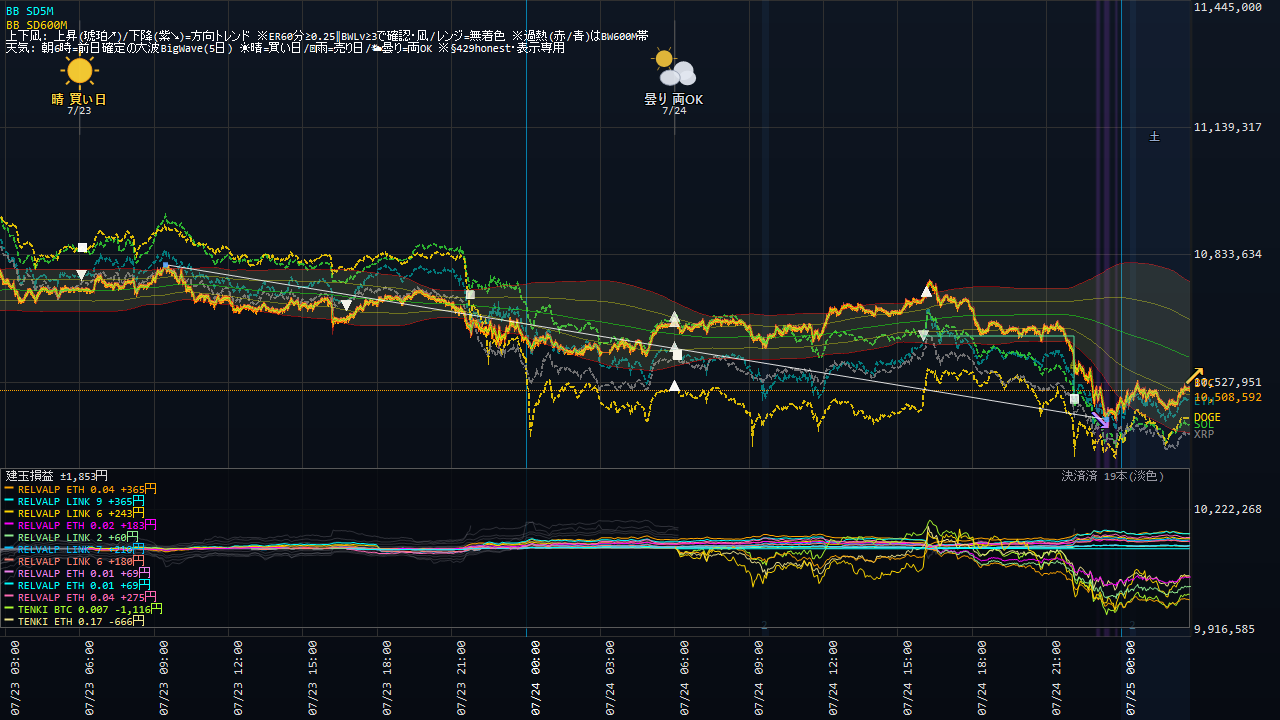
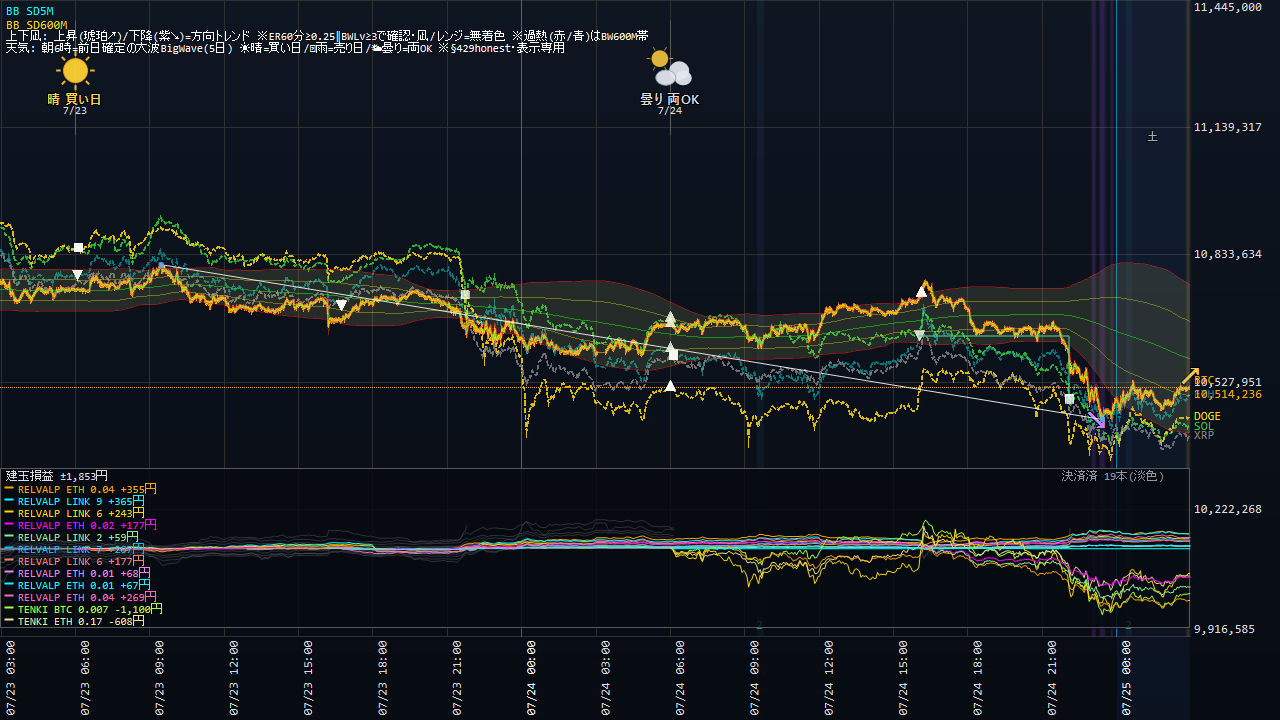
Coin100S 運用状況更新 07-25 02:59

diff --git a/coin100s-795hc4jfv8/index.html b/coin100s-795hc4jfv8/index.html
@@ -14,16 +14,16 @@ a{color:#60a5fa;text-decoration:none} a:hover{text-decoration:underline}
 .meta{color:#94a3b8;font-size:13px}</style>
 <script>setTimeout(function(){location.replace(location.pathname+"?t="+Date.now());},300000);</script></head><body>
 <h1>Coin100S ダッシュボード</h1>
-<p class="meta">スナップショット: 2026-07-25 02:52:41(自動リロード・最新化)</p>
+<p class="meta">スナップショット: 2026-07-25 02:58:41(自動リロード・最新化)</p>
 <div class="cards">
 <div class="card">建玉数<div class="v">17</div></div>
 <div class="card">本日損益<div class="v pos">+2,751円</div></div>
-<div class="card">評価損益<div class="v neg">-3,461円</div></div>
+<div class="card">評価損益<div class="v neg">-3,372円</div></div>
 </div>
 <h2>現在の建玉</h2>
-<table><tr><th>銘柄</th><th>側</th><th>数量</th><th>建値</th><th>含損益</th><th>レッグ</th></tr><tr><td>BTC_JPY</td><td>BUY</td><td>0.004</td><td>@10,745,939</td><td>-940円</td><td>TENKI5D_REV_BTC</td></tr><tr><td>BTC_JPY</td><td>BUY</td><td>0.003</td><td>@10,745,878</td><td>-705円</td><td>TENKI5D_REV_BTC</td></tr><tr><td>BTC_JPY</td><td>BUY</td><td>0.007</td><td>@10,672,390</td><td>-1,130円</td><td>TENKI5D_REV_BTC</td></tr><tr><td>DOGE_JPY</td><td>BUY</td><td>6640</td><td>@11</td><td>-678円</td><td>TENKI5D_REV_DOGE</td></tr><tr><td>DOGE_JPY</td><td>BUY</td><td>10</td><td>@11</td><td>-2円</td><td>TENKI5D_REV_DOGE</td></tr><tr><td>ETH_JPY</td><td>BUY</td><td>0.17</td><td>@309,150</td><td>-677円</td><td>TENKI5D_REV_ETH</td></tr><tr><td>ETH_JPY</td><td>SELL</td><td>0.04</td><td>@312,191</td><td>+280円</td><td>RELVALP_SELL</td></tr><tr><td>ETH_JPY</td><td>SELL</td><td>0.01</td><td>@312,191</td><td>+70円</td><td>RELVALP_SELL</td></tr><tr><td>ETH_JPY</td><td>SELL</td><td>0.01</td><td>@312,216</td><td>+70円</td><td>RELVALP_SELL</td></tr><tr><td>ETH_JPY</td><td>SELL</td><td>0.02</td><td>@314,458</td><td>+185円</td><td>RELVALP_SL700</td></tr><tr><td>ETH_JPY</td><td>SELL</td><td>0.04</td><td>@314,458</td><td>+371円</td><td>RELVALP_SELL</td></tr><tr><td>LINK_JPY</td><td>SELL</td><td>6</td><td>@1,398</td><td>+156円</td><td>RELVALP_SL700</td></tr><tr><td>LINK_JPY</td><td>SELL</td><td>7</td><td>@1,398</td><td>+182円</td><td>RELVALP_SELL</td></tr><tr><td>LINK_JPY</td><td>SELL</td><td>2</td><td>@1,398</td><td>+52円</td><td>RELVALP_SELL</td></tr><tr><td>LINK_JPY</td><td>SELL</td><td>6</td><td>@1,409</td><td>+222円</td><td>RELVALP_SL700</td></tr><tr><td>LINK_JPY</td><td>SELL</td><td>9</td><td>@1,409</td><td>+333円</td><td>RELVALP_SELL</td></tr><tr><td>SOL_JPY</td><td>BUY</td><td>3.6</td><td>@12,472</td><td>-1,250円</td><td>TENKI5D_REV_SOL</td></tr></table>
+<table><tr><th>銘柄</th><th>側</th><th>数量</th><th>建値</th><th>含損益</th><th>レッグ</th></tr><tr><td>BTC_JPY</td><td>BUY</td><td>0.004</td><td>@10,745,939</td><td>-930円</td><td>TENKI5D_REV_BTC</td></tr><tr><td>BTC_JPY</td><td>BUY</td><td>0.003</td><td>@10,745,878</td><td>-698円</td><td>TENKI5D_REV_BTC</td></tr><tr><td>BTC_JPY</td><td>BUY</td><td>0.007</td><td>@10,672,390</td><td>-1,113円</td><td>TENKI5D_REV_BTC</td></tr><tr><td>DOGE_JPY</td><td>BUY</td><td>6640</td><td>@11</td><td>-651円</td><td>TENKI5D_REV_DOGE</td></tr><tr><td>DOGE_JPY</td><td>BUY</td><td>10</td><td>@11</td><td>-1円</td><td>TENKI5D_REV_DOGE</td></tr><tr><td>ETH_JPY</td><td>BUY</td><td>0.17</td><td>@309,150</td><td>-587円</td><td>TENKI5D_REV_ETH</td></tr><tr><td>ETH_JPY</td><td>SELL</td><td>0.04</td><td>@312,191</td><td>+259円</td><td>RELVALP_SELL</td></tr><tr><td>ETH_JPY</td><td>SELL</td><td>0.01</td><td>@312,191</td><td>+64円</td><td>RELVALP_SELL</td></tr><tr><td>ETH_JPY</td><td>SELL</td><td>0.01</td><td>@312,216</td><td>+65円</td><td>RELVALP_SELL</td></tr><tr><td>ETH_JPY</td><td>SELL</td><td>0.02</td><td>@314,458</td><td>+175円</td><td>RELVALP_SL700</td></tr><tr><td>ETH_JPY</td><td>SELL</td><td>0.04</td><td>@314,458</td><td>+350円</td><td>RELVALP_SELL</td></tr><tr><td>LINK_JPY</td><td>SELL</td><td>6</td><td>@1,398</td><td>+156円</td><td>RELVALP_SL700</td></tr><tr><td>LINK_JPY</td><td>SELL</td><td>7</td><td>@1,398</td><td>+182円</td><td>RELVALP_SELL</td></tr><tr><td>LINK_JPY</td><td>SELL</td><td>2</td><td>@1,398</td><td>+52円</td><td>RELVALP_SELL</td></tr><tr><td>LINK_JPY</td><td>SELL</td><td>6</td><td>@1,409</td><td>+222円</td><td>RELVALP_SL700</td></tr><tr><td>LINK_JPY</td><td>SELL</td><td>9</td><td>@1,409</td><td>+333円</td><td>RELVALP_SELL</td></tr><tr><td>SOL_JPY</td><td>BUY</td><td>3.6</td><td>@12,472</td><td>-1,250円</td><td>TENKI5D_REV_SOL</td></tr></table>
 <p><a href="status.html"><b>▶ 運用状況の詳細(チャート・本日の取引・レジーム)</b></a></p>
 <h2>日報一覧</h2>
 <table><tr><th>取引日</th><th>実現損益</th><th>総括</th></tr><tr><td><a href='reports/20260723_Coin100S日報.html'>2026-07-23</a></td><td class="pos">+0円</td><td class='meta'>実取引: 新規8件/決済3件、実現損益 +0円。警告/孤児/エラーなし＝健全。</td></tr><tr><td><a href='reports/20260722_Coin100S日報.html'>2026-07-22</a></td><td class="pos">+0円</td><td class='meta'>実取引: 新規10件/決済5件、実現損益 +0円。シグナル却下1件（最多: BW10M3_5M／トレンド方向ゲート(N分傾き下と不一致=逆張り方向のfade禁止)）。⚠警告/エラー 9件（要確認）。</td></tr><tr><td><a href='reports/20260721_Coin100S日報.html'>2026-07-21</a></td><td class="pos">+0円</td><td class='meta'>実取引: 新規4件/決済13件、実現損益 +0円。⚠警告/エラー 13件（要確認）。</td></tr><tr><td><a href='reports/20260720_Coin100S日報.html'>2026-07-20</a></td><td class="pos">+0円</td><td class='meta'>実取引: 新規8件/決済21件、実現損益 +0円。シグナル却下8件（最多: BW10M3_5M／トレンド方向ゲート(N分傾き上と不一致=逆張り方向のfade禁止)）。⚠警告/エラー 13件（要確認）。</td></tr><tr><td><a href='reports/20260719_Coin100S日報.html'>2026-07-19</a></td><td class="pos">+0円</td><td class='meta'>実取引: 新規10件/決済7件、実現損益 +0円。⚠警告/エラー 3件（要確認）。</td></tr><tr><td><a href='reports/20260718_Coin100S日報.html'>2026-07-18</a></td><td class="pos">+0円</td><td class='meta'>実取引: 新規9件/決済8件、実現損益 +0円。警告/孤児/エラーなし＝健全。</td></tr><tr><td><a href='reports/20260717_Coin100S日報.html'>2026-07-17</a></td><td class="pos">+0円</td><td class='meta'>実取引: 新規3件/決済2件、実現損益 +0円。シグナル却下1件（最多: BW10M3_5M／トレンド方向ゲート(N分傾き下と不一致=逆張り方向のfade禁止)）。⚠警告/エラー 2件（要確認）。</td></tr><tr><td><a href='reports/20260716_Coin100S日報.html'>2026-07-16</a></td><td class="pos">+0円</td><td class='meta'>実取引: 新規0件/決済5件、実現損益 +0円。⚠警告/エラー 7件（要確認）。</td></tr><tr><td><a href='reports/20260715_Coin100S日報.html'>2026-07-15</a></td><td class="pos">+0円</td><td class='meta'>実取引: 新規6件/決済5件、実現損益 +0円。シグナル却下6件（最多: BW10M3_5M／トレンド方向ゲート(N分傾き上と不一致=逆張り方向のfade禁止)）。⚠警告/エラー 7件（要確認）。</td></tr><tr><td><a href='reports/20260714_Coin100S日報.html'>2026-07-14</a></td><td class="pos">+0円</td><td class='meta'>実取引: 新規6件/決済18件、実現損益 +0円。シグナル却下5件（最多: BW10M3_5M／トレンド方向ゲート(N分傾き上と不一致=逆張り方向のfade禁止)）。⚠警告/エラー 9件（要確認）。</td></tr><tr><td><a href='reports/20260713_Coin100S日報.html'>2026-07-13</a></td><td class="pos">+0円</td><td class='meta'>実取引: 新規5件/決済8件、実現損益 +0円。シグナル却下1件（最多: BW10M3_5M／トレンド方向ゲート(N分傾き上と不一致=逆張り方向のfade禁止)）。警告/孤児/エラーなし＝健全。</td></tr><tr><td><a href='reports/20260712_Coin100S日報.html'>2026-07-12</a></td><td class="pos">+0円</td><td class='meta'>実取引: 新規14件/決済6件、実現損益 +0円。シグナル却下5件（最多: BW10M3_5M／トレンド方向ゲート(N分傾き下と不一致=逆張り方向のfade禁止)）。⚠警告/エラー 2件（要確認）。</td></tr><tr><td><a href='reports/20260711_Coin100S日報.html'>2026-07-11</a></td><td class="pos">+0円</td><td class='meta'>実取引: 新規7件/決済6件、実現損益 +0円。⚠警告/エラー 52件（要確認）。</td></tr><tr><td><a href='reports/20260710_Coin100S日報.html'>2026-07-10</a></td><td class="pos">+0円</td><td class='meta'>実取引: 新規7件/決済6件、実現損益 +0円。シグナル却下6件（最多: BW10M3_5M／トレンド方向ゲート(N分傾き上と不一致=逆張り方向のfade禁止)）。警告/孤児/エラーなし＝健全。</td></tr><tr><td><a href='reports/20260709_Coin100S日報.html'>2026-07-09</a></td><td class="pos">+0円</td><td class='meta'>実取引: 新規8件/決済3件、実現損益 +0円。シグナル却下5件（最多: SD120M_5M／トレンド方向ゲート(N分傾き上と不一致=逆張り方向のfade禁止)）。警告/孤児/エラーなし＝健全。</td></tr><tr><td><a href='reports/20260708_Coin100S日報.html'>2026-07-08</a></td><td class="pos">+0円</td><td class='meta'>実取引: 新規2件/決済4件、実現損益 +0円。シグナル却下4件（最多: SD120M_5M／トレンド方向ゲート(N分傾き下と不一致=逆張り方向のfade禁止)）。警告/孤児/エラーなし＝健全。</td></tr><tr><td><a href='reports/20260707_Coin100S日報.html'>2026-07-07</a></td><td class="pos">+0円</td><td class='meta'>実取引: 新規8件/決済6件、実現損益 +0円。シグナル却下4件（最多: SD120M_5M／トレンド方向ゲート(N分傾き上と不一致=逆張り方向のfade禁止)）。⚠警告/エラー 258件（要確認）。</td></tr><tr><td><a href='reports/20260706_Coin100S日報.html'>2026-07-06</a></td><td class="pos">+0円</td><td class='meta'>実取引: 新規9件/決済6件、実現損益 +0円。シグナル却下9件（最多: SD120M_5M／トレンド方向ゲート(N分傾き上と不一致=逆張り方向のfade禁止)）。⚠警告/エラー 150件（要確認）。</td></tr><tr><td><a href='reports/20260705_Coin100S日報.html'>2026-07-05</a></td><td class="pos">+0円</td><td class='meta'>実取引: 新規8件/決済3件、実現損益 +0円。⚠警告/エラー 2件（要確認）。</td></tr><tr><td><a href='reports/20260704_Coin100S日報.html'>2026-07-04</a></td><td class="pos">+0円</td><td class='meta'>実取引: 新規1件/決済2件、実現損益 +0円。⚠警告/エラー 2件（要確認）。</td></tr><tr><td><a href='reports/20260703_Coin100S日報.html'>2026-07-03</a></td><td class="pos">+0円</td><td class='meta'>実取引: 新規5件/決済4件、実現損益 +0円。⚠警告/エラー 15件（要確認）。</td></tr><tr><td><a href='reports/20260702_Coin100S日報.html'>2026-07-02</a></td><td class="pos">+0円</td><td class='meta'>実取引: 新規7件/決済5件、実現損益 +0円。シグナル却下17件（最多: SD120M_5M／トレンド方向ゲート(N分傾き上と不一致=逆張り方向のfade禁止)）。⚠警告/エラー 26件（要確認）。</td></tr><tr><td><a href='reports/20260701_Coin100S日報.html'>2026-07-01</a></td><td class="pos">+0円</td><td class='meta'>実取引: 新規14件/決済8件、実現損益 +0円。シグナル却下14件（最多: SD120M_5M／ボラ軸ゲート(SDN%&amp;gt;N%=高ボラ/荒れレンジ)）。⚠警告/エラー 2件（要確認）。</td></tr><tr><td><a href='reports/20260630_Coin100S日報.html'>2026-06-30</a></td><td class="pos">+0円</td><td class='meta'>実取引: 新規0件/決済1件、実現損益 +0円。シグナル却下29件（最多: 微5M／当日枠N）。警告/孤児/エラーなし＝健全。</td></tr></table>
-<hr><p class="meta">更新: 2026-07-25 02:53:06 / 自動生成: tools/web_publish.py(§580)</p>
+<hr><p class="meta">更新: 2026-07-25 02:59:07 / 自動生成: tools/web_publish.py(§580)</p>
 </body></html>

diff --git a/coin100s-795hc4jfv8/status.html b/coin100s-795hc4jfv8/status.html
@@ -14,22 +14,22 @@ a{color:#60a5fa;text-decoration:none} a:hover{text-decoration:underline}
 .meta{color:#94a3b8;font-size:13px}</style>
 <script>setTimeout(function(){location.replace(location.pathname+"?t="+Date.now());},300000);</script></head><body>
 <h1>Coin100S 運用状況</h1>
-<p class="meta">スナップショット: 2026-07-25 02:52:41 / ページ生成: 2026-07-25 02:53:06(自動リロード・最新化) / <a href="index.html">目次へ</a></p>
+<p class="meta">スナップショット: 2026-07-25 02:58:41 / ページ生成: 2026-07-25 02:59:07(自動リロード・最新化) / <a href="index.html">目次へ</a></p>
 <div class="cards">
 <div class="card">建玉数<div class="v">17</div></div>
 <div class="card">本日損益<div class="v pos">+2,751円</div></div>
-<div class="card">評価損益<div class="v neg">-3,461円</div></div>
+<div class="card">評価損益<div class="v neg">-3,372円</div></div>
 </div>
 <h2>資産推移(直近30日)</h2>
-<img src="status_equity.png?t=0253" alt="equity">
+<img src="status_equity.png?t=0259" alt="equity">
 <h2>取引チャート(直近24h)</h2>
-<img src="status_chart.png?t=0253" alt="chart">
+<img src="status_chart.png?t=0259" alt="chart">
 <h2>建玉一覧</h2>
-<table><tr><th>銘柄</th><th>側</th><th>数量</th><th>建値</th><th>含損益</th><th>レッグ</th></tr><tr><td>BTC_JPY</td><td>BUY</td><td>0.004</td><td>@10,745,939</td><td>-940円</td><td>TENKI5D_REV_BTC</td></tr><tr><td>BTC_JPY</td><td>BUY</td><td>0.003</td><td>@10,745,878</td><td>-705円</td><td>TENKI5D_REV_BTC</td></tr><tr><td>BTC_JPY</td><td>BUY</td><td>0.007</td><td>@10,672,390</td><td>-1,130円</td><td>TENKI5D_REV_BTC</td></tr><tr><td>DOGE_JPY</td><td>BUY</td><td>6640</td><td>@11</td><td>-678円</td><td>TENKI5D_REV_DOGE</td></tr><tr><td>DOGE_JPY</td><td>BUY</td><td>10</td><td>@11</td><td>-2円</td><td>TENKI5D_REV_DOGE</td></tr><tr><td>ETH_JPY</td><td>BUY</td><td>0.17</td><td>@309,150</td><td>-677円</td><td>TENKI5D_REV_ETH</td></tr><tr><td>ETH_JPY</td><td>SELL</td><td>0.04</td><td>@312,191</td><td>+280円</td><td>RELVALP_SELL</td></tr><tr><td>ETH_JPY</td><td>SELL</td><td>0.01</td><td>@312,191</td><td>+70円</td><td>RELVALP_SELL</td></tr><tr><td>ETH_JPY</td><td>SELL</td><td>0.01</td><td>@312,216</td><td>+70円</td><td>RELVALP_SELL</td></tr><tr><td>ETH_JPY</td><td>SELL</td><td>0.02</td><td>@314,458</td><td>+185円</td><td>RELVALP_SL700</td></tr><tr><td>ETH_JPY</td><td>SELL</td><td>0.04</td><td>@314,458</td><td>+371円</td><td>RELVALP_SELL</td></tr><tr><td>LINK_JPY</td><td>SELL</td><td>6</td><td>@1,398</td><td>+156円</td><td>RELVALP_SL700</td></tr><tr><td>LINK_JPY</td><td>SELL</td><td>7</td><td>@1,398</td><td>+182円</td><td>RELVALP_SELL</td></tr><tr><td>LINK_JPY</td><td>SELL</td><td>2</td><td>@1,398</td><td>+52円</td><td>RELVALP_SELL</td></tr><tr><td>LINK_JPY</td><td>SELL</td><td>6</td><td>@1,409</td><td>+222円</td><td>RELVALP_SL700</td></tr><tr><td>LINK_JPY</td><td>SELL</td><td>9</td><td>@1,409</td><td>+333円</td><td>RELVALP_SELL</td></tr><tr><td>SOL_JPY</td><td>BUY</td><td>3.6</td><td>@12,472</td><td>-1,250円</td><td>TENKI5D_REV_SOL</td></tr></table>
+<table><tr><th>銘柄</th><th>側</th><th>数量</th><th>建値</th><th>含損益</th><th>レッグ</th></tr><tr><td>BTC_JPY</td><td>BUY</td><td>0.004</td><td>@10,745,939</td><td>-930円</td><td>TENKI5D_REV_BTC</td></tr><tr><td>BTC_JPY</td><td>BUY</td><td>0.003</td><td>@10,745,878</td><td>-698円</td><td>TENKI5D_REV_BTC</td></tr><tr><td>BTC_JPY</td><td>BUY</td><td>0.007</td><td>@10,672,390</td><td>-1,113円</td><td>TENKI5D_REV_BTC</td></tr><tr><td>DOGE_JPY</td><td>BUY</td><td>6640</td><td>@11</td><td>-651円</td><td>TENKI5D_REV_DOGE</td></tr><tr><td>DOGE_JPY</td><td>BUY</td><td>10</td><td>@11</td><td>-1円</td><td>TENKI5D_REV_DOGE</td></tr><tr><td>ETH_JPY</td><td>BUY</td><td>0.17</td><td>@309,150</td><td>-587円</td><td>TENKI5D_REV_ETH</td></tr><tr><td>ETH_JPY</td><td>SELL</td><td>0.04</td><td>@312,191</td><td>+259円</td><td>RELVALP_SELL</td></tr><tr><td>ETH_JPY</td><td>SELL</td><td>0.01</td><td>@312,191</td><td>+64円</td><td>RELVALP_SELL</td></tr><tr><td>ETH_JPY</td><td>SELL</td><td>0.01</td><td>@312,216</td><td>+65円</td><td>RELVALP_SELL</td></tr><tr><td>ETH_JPY</td><td>SELL</td><td>0.02</td><td>@314,458</td><td>+175円</td><td>RELVALP_SL700</td></tr><tr><td>ETH_JPY</td><td>SELL</td><td>0.04</td><td>@314,458</td><td>+350円</td><td>RELVALP_SELL</td></tr><tr><td>LINK_JPY</td><td>SELL</td><td>6</td><td>@1,398</td><td>+156円</td><td>RELVALP_SL700</td></tr><tr><td>LINK_JPY</td><td>SELL</td><td>7</td><td>@1,398</td><td>+182円</td><td>RELVALP_SELL</td></tr><tr><td>LINK_JPY</td><td>SELL</td><td>2</td><td>@1,398</td><td>+52円</td><td>RELVALP_SELL</td></tr><tr><td>LINK_JPY</td><td>SELL</td><td>6</td><td>@1,409</td><td>+222円</td><td>RELVALP_SL700</td></tr><tr><td>LINK_JPY</td><td>SELL</td><td>9</td><td>@1,409</td><td>+333円</td><td>RELVALP_SELL</td></tr><tr><td>SOL_JPY</td><td>BUY</td><td>3.6</td><td>@12,472</td><td>-1,250円</td><td>TENKI5D_REV_SOL</td></tr></table>
 <h2>実現決済履歴(直近15件・OrderId単位)</h2>
 <table><tr><th>決済時刻</th><th>レッグ</th><th>銘柄</th><th>実現損益</th></tr><tr><td>07-24 22:08</td><td>SIGFADE_ETH</td><td>ETH</td><td class="pos">+461円</td></tr><tr><td>07-24 06:08</td><td>RELVALP_SELL</td><td>XRP</td><td class="pos">+140円</td></tr><tr><td>07-24 06:08</td><td>RELVALP_SELL</td><td>XRP</td><td class="pos">+511円</td></tr><tr><td>07-24 06:08</td><td>RELVALP_SELL</td><td>ADA</td><td class="pos">+451円</td></tr><tr><td>07-24 06:08</td><td>RELVALP_SL700</td><td>ADA</td><td class="pos">+222円</td></tr><tr><td>07-24 06:08</td><td>RELVALP_SELL</td><td>XRP</td><td class="pos">+298円</td></tr><tr><td>07-24 06:08</td><td>RELVALP_SL700</td><td>XRP</td><td class="pos">+329円</td></tr><tr><td>07-24 06:08</td><td>RELVALP_SL700</td><td>ADA</td><td class="pos">+64円</td></tr><tr><td>07-24 06:08</td><td>RELVALP_SELL</td><td>XRP</td><td class="pos">+32円</td></tr><tr><td>07-24 06:08</td><td>RELVALP_SELL</td><td>ADA</td><td class="pos">+112円</td></tr><tr><td>07-24 06:08</td><td>RELVALP_SL700</td><td>XRP</td><td class="pos">+131円</td></tr><tr><td>07-23 21:46</td><td>SIGFADE_SOL</td><td>SOL</td><td class="pos">+557円</td></tr><tr><td>07-23 06:08</td><td>RELVALP_SELL</td><td>SOL</td><td class="neg">-67円</td></tr><tr><td>07-23 06:08</td><td>RELVALP_SL700</td><td>SOL</td><td class="neg">-21円</td></tr><tr><td>07-23 01:34</td><td>SIGFADE_BTC</td><td>BTC</td><td class="pos">+27円</td></tr></table>
 <!-- §799c 「本取引日の実取引(6:00起点)」テーブルは公開ページから削除(ユーザー指示2026-07-15・数量/指値まで晒す情報漏れ)。建玉/実現損益は許可・実発注の生取引明細は非公開 -->
 <h2>現在レジーム(3軸・§570c)</h2>
-<ul><li>アルト対BTC 5日: <b>-57bps</b>(アルト劣後=RELVAL順風)</li><li>BTC ER240m: <b>0.025</b>(閾値0.25→レンジ(fade順風/BWTRD逆風))</li><li>BTC実現ボラ240m: <b>5.56</b> bps/分</li></ul>
+<ul><li>アルト対BTC 5日: <b>-57bps</b>(アルト劣後=RELVAL順風)</li><li>BTC ER240m: <b>0.009</b>(閾値0.25→レンジ(fade順風/BWTRD逆風))</li><li>BTC実現ボラ240m: <b>5.44</b> bps/分</li></ul>
 <hr><p class="meta">自動生成: tools/web_publish.py(§580・読み取り専用)。売買判断はアプリ本体。</p>
 </body></html>
